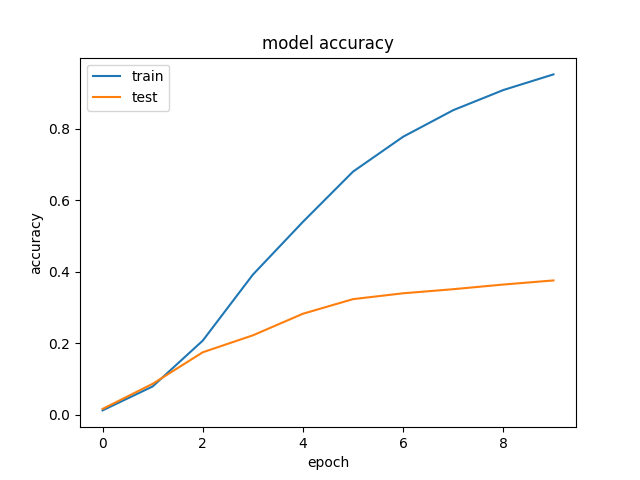
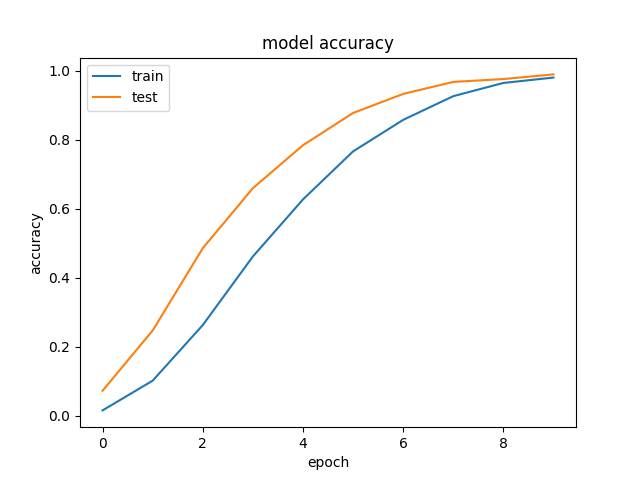
Model fits well

diff --git a/main.py b/main.py
@@ -47,7 +47,7 @@ train_df, test_df = train_test_split(image_df, train_size=0.7, shuffle=True, ran
 # This is responsible for image augmentation
 train_generator = tf.keras.preprocessing.image.ImageDataGenerator(
     preprocessing_function=tf.keras.applications.mobilenet_v2.preprocess_input,
-    validation_split=0.2
+    validation_split=0.25
 )
 
 test_generator = tf.keras.preprocessing.image.ImageDataGenerator(
@@ -61,7 +61,7 @@ train_images = train_generator.flow_from_dataframe(
     target_size=(224, 224),
     color_mode='rgb',
     class_mode='categorical',
-    batch_size=50,
+    batch_size=32,
     shuffle=True,
     seed=42,
     subset='training'
@@ -74,7 +74,7 @@ val_images = train_generator.flow_from_dataframe(
     target_size=(224, 224),
     color_mode='rgb',
     class_mode='categorical',
-    batch_size=50,
+    batch_size=32,
     shuffle=True,
     seed=42,
     subset='validation'
@@ -87,7 +87,7 @@ test_images = test_generator.flow_from_dataframe(
     target_size=(224, 224),
     color_mode='rgb',
     class_mode=None,
-    batch_size=50,
+    batch_size=32,
     shuffle=False
 )
 
@@ -121,8 +121,8 @@ model.compile(
 print("I'm fitting...\n")
 history = model.fit(
     train_images,
-    validation_data=val_images,
-    epochs=100,
+    validation_data=train_images,
+    epochs=10,
     callbacks=[
         tf.keras.callbacks.EarlyStopping(
             monitor='val_loss',
@@ -134,7 +134,7 @@ history = model.fit(
 
 print("Im evaluating...\n")
 
-result = model.evaluate(test_images, verbose=0)
+result = model.evaluate(train_images)
 print(result)
 print("    Test loss: {:.5f}".format(result[0]))
 print("Test accuracy: {:.2f}%".format(result[1] * 100))
